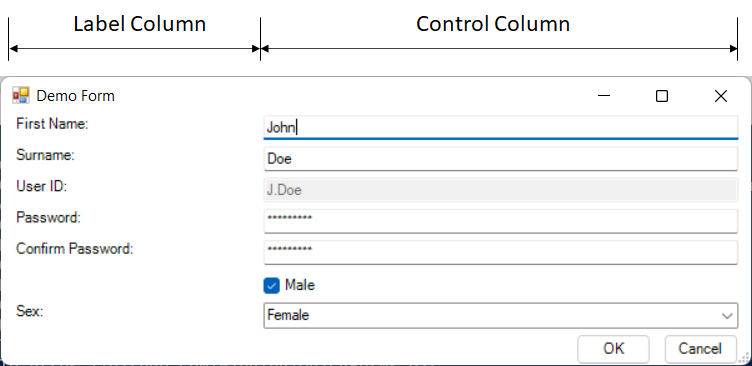
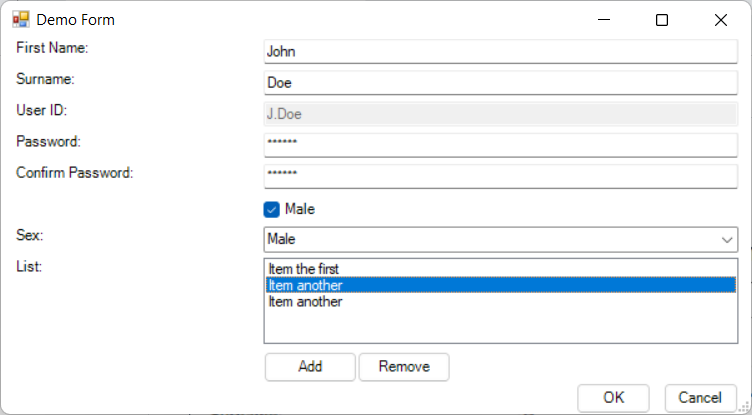
update screenshot

diff --git a/README.MD b/README.MD
@@ -9,6 +9,8 @@ supporting the following controls:
 - ```ComboBox``` (drop-down list)
 - ```ListBox``` (with optional user specified Buttons)
 
+Example (the included **demo.ps1** form):
+
 ![demo form](./demo.png)
 
 Callbacks can be easily attached to the most common control events e.g. 
